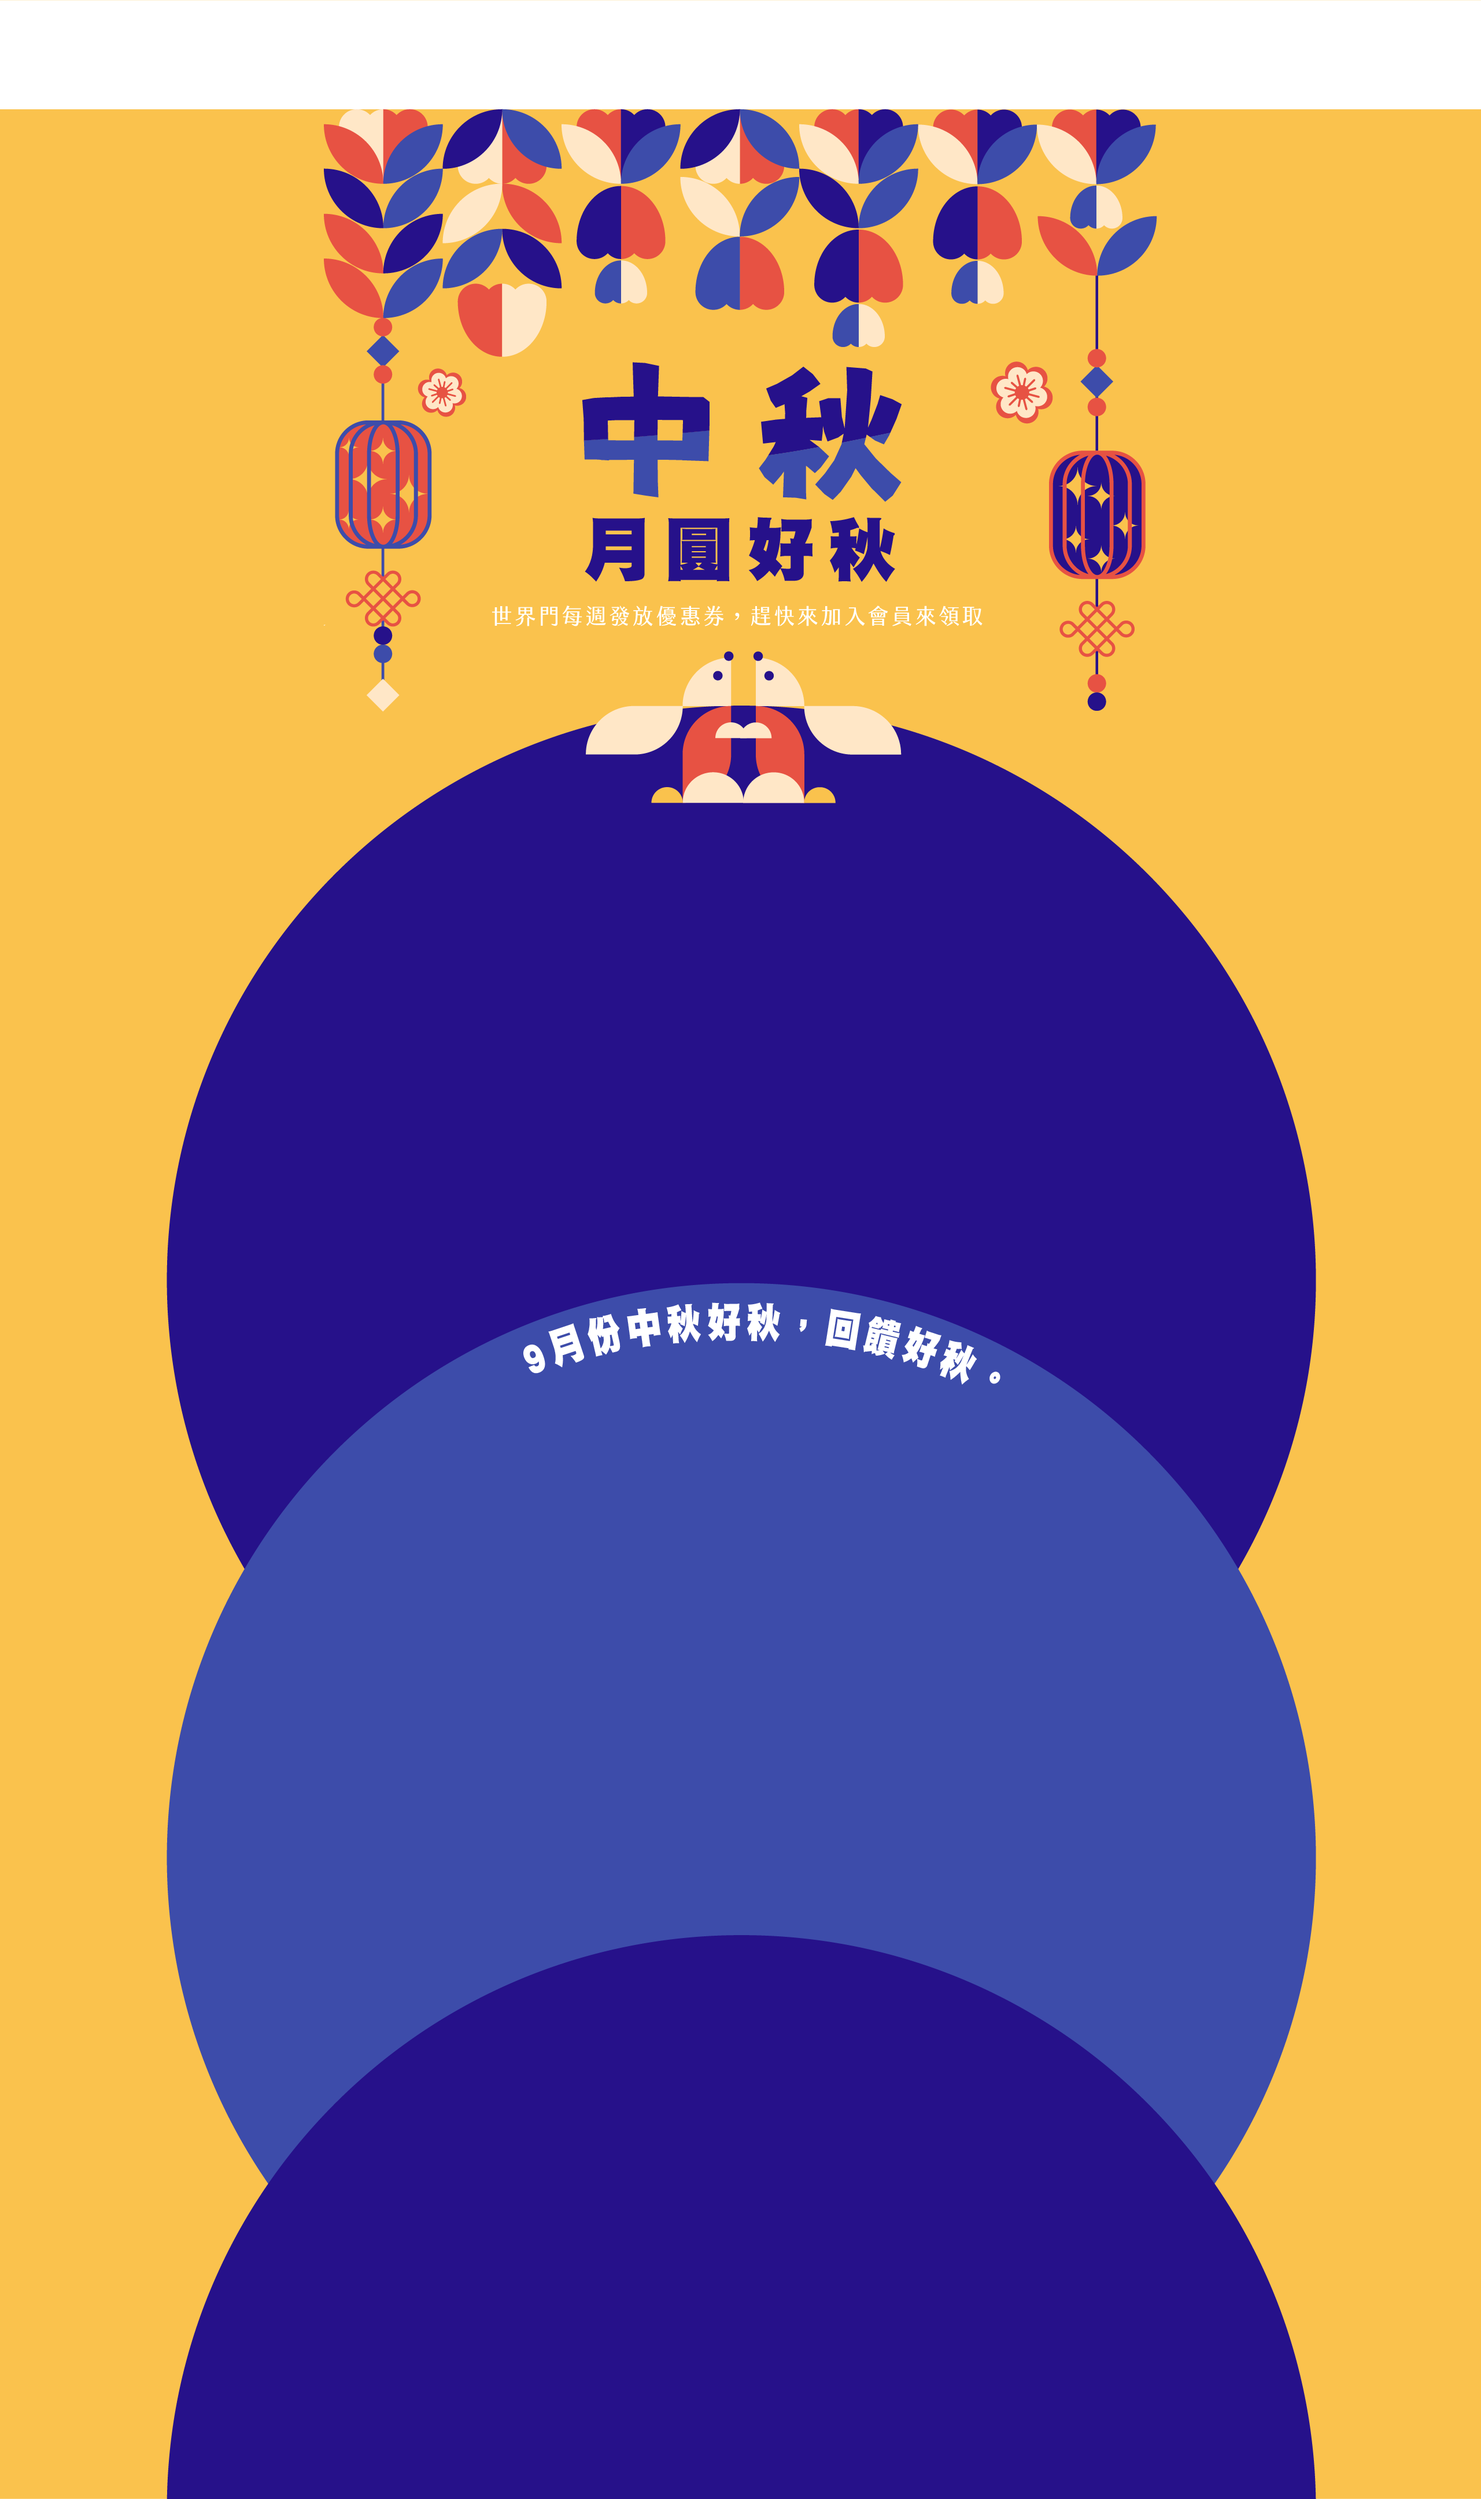
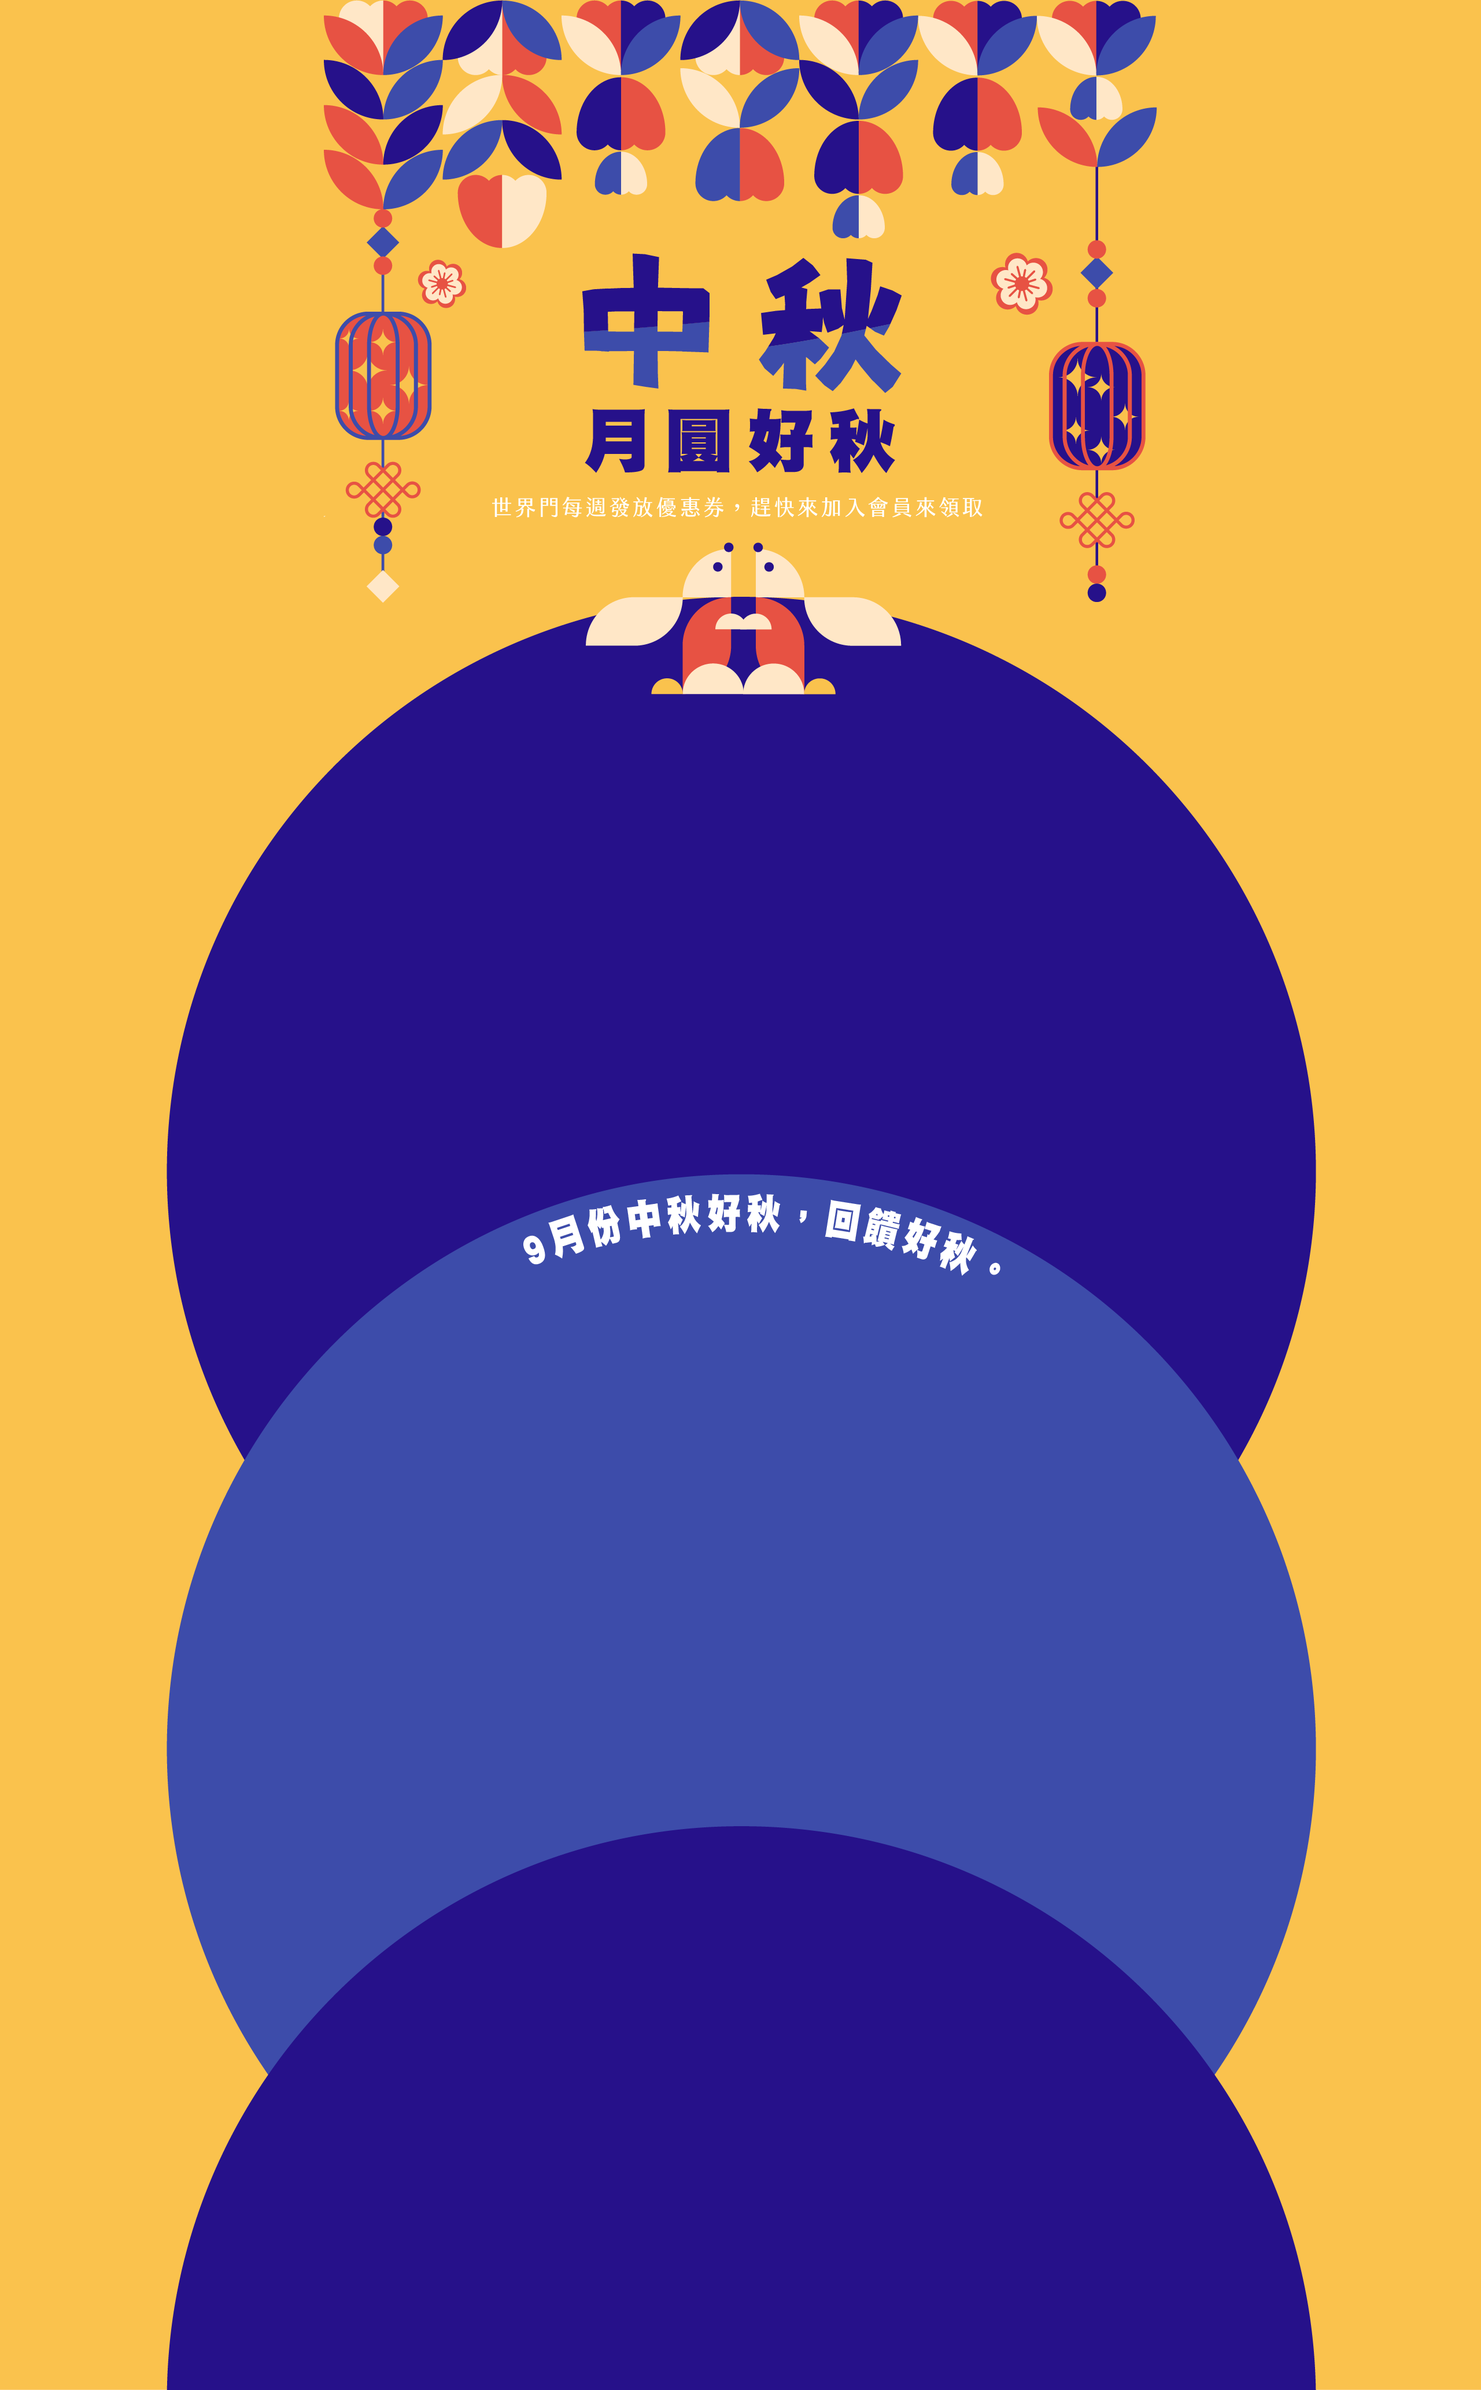
update background

diff --git a/css/styles.scss b/css/styles.scss
@@ -15,7 +15,7 @@ $background-color: #46a9ff;
 body {
     position: relative;
     width: 100vw;
-    min-height: 4320px;
+    min-height: 4133px;
     font-family: Arial, sans-serif;
     background-image: url("../imgs/background-pc.png");    
     background-repeat: no-repeat; 
@@ -48,7 +48,6 @@ main {
     justify-content: center;
     margin: 0 auto;
     padding: 20px;
-    margin-top: 148px;
 
     section {
         width: 1200px;
@@ -60,7 +59,7 @@ main {
     justify-content: space-evenly;
     max-width: 1200px;
     width: 90%;
-    margin-top: 1120px;
+    margin-top: 1300px;
 
     img {
         width: 480px;
@@ -70,7 +69,7 @@ main {
 .notes {
     @include flex-center;
     flex-direction: column;
-    margin-top: 388px;
+    margin-top: 360px;
 
     .notes-button {
         background-color: $secondary-color;
@@ -107,7 +106,7 @@ main {
 .shop-list {
     @include flex-center;
     flex-direction: column;
-    margin-top: 360px;  
+    margin-top: 264px;  
     
     .shops {
         display: flex;
@@ -131,7 +130,7 @@ main {
 @media (max-width: 990px) {
     body {   
         background-image: url("../imgs/mobile/background-tablet.png");    
-        min-height: 5995px;
+        min-height: 5868px;
     }
 
     .mobile-hidden {
@@ -149,6 +148,7 @@ main {
         .notes-content {
             width: 90%;
             height: 700px;
+            margin-top: 254px;
             img {
                 display: none;
             }
@@ -183,20 +183,8 @@ main {
 
 @media (max-width: 700px) {
     body {
-        min-height: 3600px; 
+        min-height: 3526px; 
         background-image: url("../imgs/mobile/background-mobile.png"); 
-        background-position: center;
-    }
-
-    header {
-        @include flex-center;
-        height: 80px;
-        padding: 0;
-        background-color: white;
-    
-        .logo {
-            width: 100px;
-        }
     }
 
     main {
@@ -211,7 +199,7 @@ main {
 
         .notes-content {
             width: 380px;
-            height: 700px;
+            margin-top: 36px;
             img {
                 display: none;
             }
@@ -219,7 +207,7 @@ main {
                 width: 400px;
                 margin-top: 280px;
                 div {
-                    padding: 12px;
+                    padding: 8px 12px;
                 }
                 p {
                     font-size: 18px;

diff --git a/css/styles.css b/css/styles.css
@@ -1,7 +1,7 @@
 body {
   position: relative;
   width: 100vw;
-  min-height: 4320px;
+  min-height: 4133px;
   font-family: Arial, sans-serif;
   background-image: url("../imgs/background-pc.png");
   background-repeat: no-repeat;
@@ -35,7 +35,6 @@ main {
   justify-content: center;
   margin: 0 auto;
   padding: 20px;
-  margin-top: 148px;
 }
 main section {
   width: 1200px;
@@ -48,7 +47,7 @@ main section {
   justify-content: space-evenly;
   max-width: 1200px;
   width: 90%;
-  margin-top: 1120px;
+  margin-top: 1300px;
 }
 .promotion img {
   width: 480px;
@@ -59,7 +58,7 @@ main section {
   justify-content: center;
   align-items: center;
   flex-direction: column;
-  margin-top: 388px;
+  margin-top: 360px;
 }
 .notes .notes-button {
   background-color: #fff35f;
@@ -97,7 +96,7 @@ main section {
   justify-content: center;
   align-items: center;
   flex-direction: column;
-  margin-top: 360px;
+  margin-top: 264px;
 }
 .shop-list .shops {
   display: flex;
@@ -120,7 +119,7 @@ main section {
 @media (max-width: 990px) {
   body {
     background-image: url("../imgs/mobile/background-tablet.png");
-    min-height: 5995px;
+    min-height: 5868px;
   }
   .mobile-hidden {
     display: none;
@@ -135,6 +134,7 @@ main section {
   .notes .notes-content {
     width: 90%;
     height: 700px;
+    margin-top: 254px;
   }
   .notes .notes-content img {
     display: none;
@@ -165,20 +165,8 @@ main section {
 }
 @media (max-width: 700px) {
   body {
-    min-height: 3600px;
+    min-height: 3526px;
     background-image: url("../imgs/mobile/background-mobile.png");
-    background-position: center;
-  }
-  header {
-    display: flex;
-    justify-content: center;
-    align-items: center;
-    height: 80px;
-    padding: 0;
-    background-color: white;
-  }
-  header .logo {
-    width: 100px;
   }
   main {
     margin-top: 0px;
@@ -190,7 +178,7 @@ main section {
   }
   .notes .notes-content {
     width: 380px;
-    height: 700px;
+    margin-top: 36px;
   }
   .notes .notes-content img {
     display: none;
@@ -200,7 +188,7 @@ main section {
     margin-top: 280px;
   }
   .notes .notes-content .text div {
-    padding: 12px;
+    padding: 8px 12px;
   }
   .notes .notes-content .text p {
     font-size: 18px;

diff --git a/index.html b/index.html
@@ -7,9 +7,6 @@
     <link rel="stylesheet" href="css/styles.css">
 </head>
 <body >
-    <header>
-        <img src="imgs/logo.png" alt="SEKAIMEN logo" class="logo">
-    </header>
     <main>
         <section class="promotion">
           <img src="imgs/moon-cake-1.png" alt="世界門 九月優惠">
